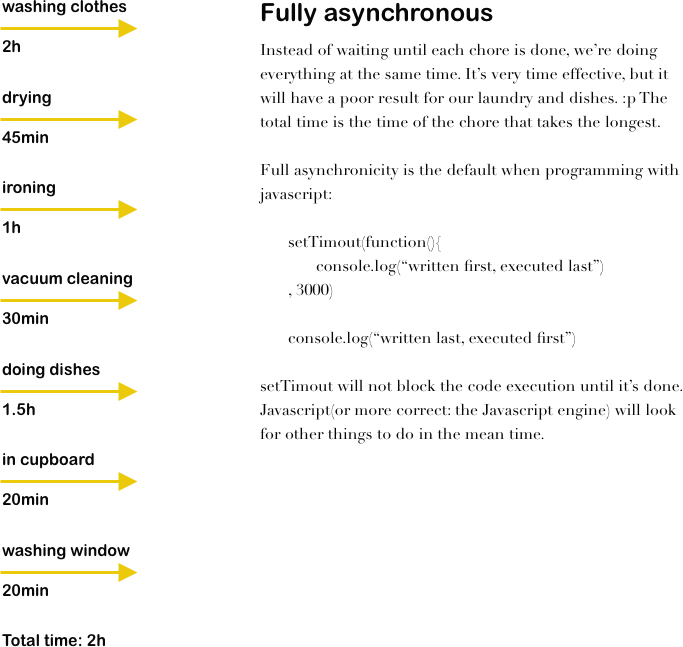
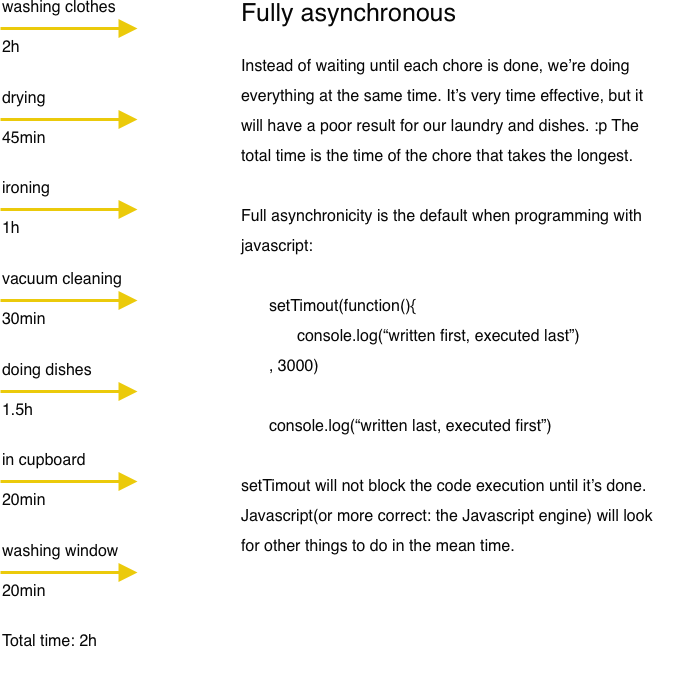
Typos and styling

diff --git a/README.md b/README.md
@@ -21,7 +21,7 @@ boring chores, like:
 
 Do all tasks depend upon each other? Which do and which do not? 
 
-Some tasks you can execute simultaneously. I would be pretty dumb to stand in front of the dishwasher until it finished instead of moving on to some other chore in the meantime. Let's say you are that dumb an you do every chore 
+Some tasks you can execute simultaneously. I would be pretty dumb to stand in front of the dishwasher until it finished instead of moving on to some other chore in the meantime. Let's say you are that dumb and you do every chore 
 synchronously. That would look like this:
 
 
